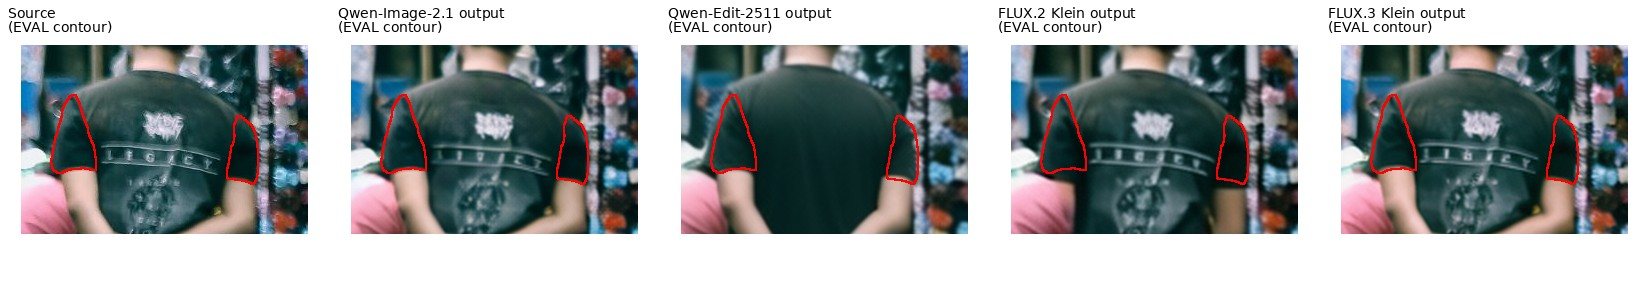
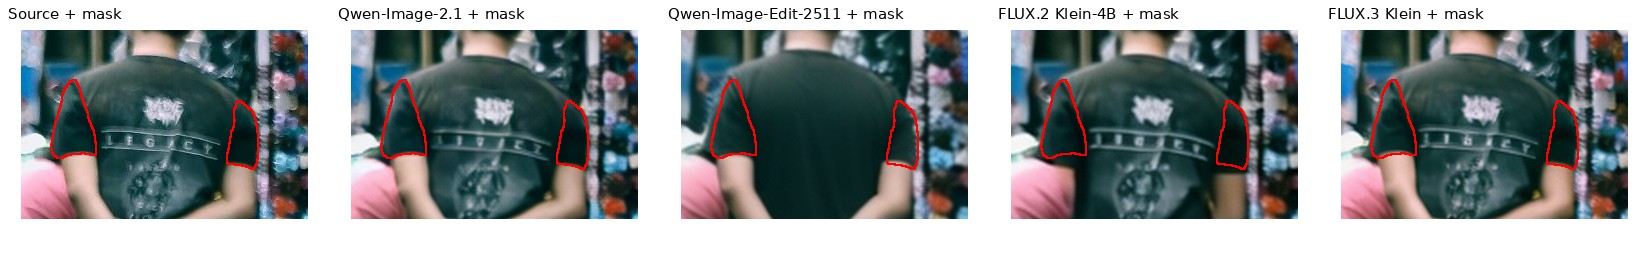
docs: restore visual locator report

diff --git a/evaluation/analyze_results.py b/evaluation/analyze_results.py
@@ -1,7 +1,6 @@
 from __future__ import annotations
 import csv, html, json, math, re, shutil
 from pathlib import Path
-import textwrap
 from collections import Counter, defaultdict
 from PIL import Image, ImageChops, ImageFilter, ImageDraw, ImageFont
 
@@ -24,18 +23,6 @@ PATHS = {
 }
 COLORS = {'qwen_image_21':'#4472c4','qwen_image_edit_2511':'#ed7d31','flux2_klein_4b':'#70ad47','flux3_klein':'#7030a0'}
 DIM_COLORS = {'E':'#4472c4','P':'#ed7d31','Q':'#70ad47','unit_joint':'#7030a0'}
-INPUT_METHODS = {
-    'qwen_image_21': 'grayscale mask label map (mask_full)',
-    'qwen_image_edit_2511': 'grayscale mask label map (mask_full)',
-    'flux2_klein_4b': 'grayscale mask label map (mask_full)',
-    'flux3_klein': 'color locator image (colored locator marks)',
-}
-SHORT_LABELS = {
-    'qwen_image_21': 'Qwen-Image-2.1',
-    'qwen_image_edit_2511': 'Qwen-Edit-2511',
-    'flux2_klein_4b': 'FLUX.2 Klein',
-    'flux3_klein': 'FLUX.3 Klein',
-}
 
 
 def read_jsonl(p):
@@ -225,7 +212,7 @@ def grouped_panel(x0,title,groups,metric='unit_joint_rate'):
     return s
 W,H=1250,700
 body=svg_text(W/2,38,'Locator Impact on Unit Joint-Pass Rate',26,'#111827','middle','bold')
-body+=grouped_panel(55,'Reference vs. no-reference',['ref','no-ref'])+grouped_panel(650,'Locator type (case metadata)',['point','box','mask'])
+body+=grouped_panel(55,'Reference vs. no-reference',['ref','no-ref'])+grouped_panel(650,'Locator type',['point','box','mask'])
 for i,(m,label) in enumerate(MODELS.items()):
     xx=95+(i%2)*260; yy=610+(i//2)*32; body+=f'<rect x="{xx}" y="{yy-12}" width="14" height="14" rx="2" fill="{COLORS[m]}"/>'+svg_text(xx+23,yy,label,13)
 svg_chart(FIG/'locator_impact.svg',body,W,H)
@@ -311,14 +298,14 @@ for tag,cid in selected.items():
     shutil.copy2(j['public_job']['images'][1],ifolder/'locator.png')
     # overview
     mask_job=case_jobs['qwen_image_21'][cid]
-    imgs=[('Source (clean)',j['source_image']),('Mask locator\n(Qwen/FLUX.2)',mask_job['public_job']['images'][1]),('Color locator\n(FLUX.3)',j['public_job']['images'][1])]
+    imgs=[('Source',j['source_image']),('Mask locator',mask_job['public_job']['images'][1]),('Color locator',j['public_job']['images'][1])]
     for m,label in MODELS.items():
         mj=case_jobs[m][cid]
-        imgs.append((f'{SHORT_LABELS[m]} output\n[{"mask" if m != "flux3_klein" else "color"}]',outputs[m][mj['job_id']]['output_image']))
+        imgs.append((label,outputs[m][mj['job_id']]['output_image']))
     cells=[]
     for label,p in imgs:
-        im=thumb(Image.open(p),size=(360,245)); cell=Image.new('RGB',(380,320),'white'); cell.paste(im,((380-im.width)//2,55)); ImageDraw.Draw(cell).multiline_text((10,6),label,fill='black',font=font(17),spacing=2); cells.append(cell)
-    ov=Image.new('RGB',(380*len(cells),320),'white')
+        im=thumb(Image.open(p)); cell=Image.new('RGB',(380,300),'white'); cell.paste(im,((380-im.width)//2,28)); ImageDraw.Draw(cell).text((10,6),label,fill='black',font=font(18)); cells.append(cell)
+    ov=Image.new('RGB',(380*len(cells),300),'white')
     for i,c in enumerate(cells): ov.paste(c,(i*380,0))
     ov.save(ifolder/'overview.jpg',quality=90)
     # details
@@ -326,16 +313,16 @@ for tag,cid in selected.items():
         uid=d['id']; rowhtml=[]
         source_plain=Image.open(d['source_crop']).convert('RGB')
         source=outlined(source_plain,d['gold_source_mask'],d['crop_box_xyxy'])
-        cols=[('Source\n(EVAL contour)',source)]
+        cols=[('Source + mask',source)]
         for m,label in MODELS.items():
             # Use the crop built from the model's own input/output binding.
             mj=case_jobs[m][cid]
             md=next(x for x in mj['private_evaluation_details'] if x['id']==uid)
             outplain=Image.open(md['output_crop']).convert('RGB')
-            cols.append((f'{SHORT_LABELS[m]} output\n(EVAL contour)',outlined(outplain,md['gold_source_mask'],md['crop_box_xyxy'])))
-        cw,ch=330,300; panel=Image.new('RGB',(cw*len(cols),ch),'white'); draw=ImageDraw.Draw(panel)
+            cols.append((label+' + mask',outlined(outplain,md['gold_source_mask'],md['crop_box_xyxy'])))
+        cw,ch=330,260; panel=Image.new('RGB',(cw*len(cols),ch),'white'); draw=ImageDraw.Draw(panel)
         for i,(label,im) in enumerate(cols):
-            im.thumbnail((cw-10,ch-52),Image.Resampling.LANCZOS); panel.paste(im,(i*cw+(cw-im.width)//2,45)); draw.multiline_text((i*cw+8,5),label,fill='black',font=font(14),spacing=1)
+            im.thumbnail((cw-10,ch-35),Image.Resampling.LANCZOS); panel.paste(im,(i*cw+(cw-im.width)//2,30)); draw.text((i*cw+8,5),label,fill='black',font=font(15))
         panel.save(ifolder/f'{uid}_detail.jpg',quality=90)
 
 # Case HTML with status badges and evidence.
@@ -381,88 +368,9 @@ def prompt_zh(job):
     return '\n'.join(lines)
 
 # Markdown report.
-md=['# SAMTok Edit Benchmark 2.6.0 结果分析','',f'生成时间：2026-10-19；四个模型均为完整 1084/1084 judge 评分。Judge 模型：`Qwen3.8-Flash-Next-FP8`。', '', '## 0. 评测配置', '', '### 0.1 评测对象与输入', '', '- Benchmark manifest：`data/v2_2.6.0/cases.jsonl`，共 1,084 个 `mixed` jobs。', '- 源数据根：`/mnt/bn/strategy-mllm-train/user/tanyue/datasets/samtok_edit_benchmark_v2`。', '- 输入协议：`visual_locator_v2`。每个 job 给模型干净 source image、区域信息图和公开 instruction；模型只需输出编辑后的完整 RGB 图片。', '- 三个模型使用 `mask_full`：第二张图是灰度 label map，U1…U5 分别使用灰度值 51、102、153、204、255；颜色和形状不是输出目标。', '- FLUX.3 使用 `visual_locator_v2_mixed_color`：第二张图是带颜色 locator marks 的区域图，结合 point、box、mask 和 U 标签定位。', '', '### 0.2 生成模型与推理 setting', '', '| 模型 | 输入 setting | 推理实现 | Steps | 关键参数 |', '|---|---|---|---:|---|']
-GEN_SETTINGS = {
-    'qwen_image_21': ('mask_full', 'DiffSynth `QwenImage21Pipeline`', '40', 'cfg_scale=1.0; grid=32'),
-    'qwen_image_edit_2511': ('mask_full', 'DiffSynth `QwenImagePipeline`', '40', 'cfg_scale=4.0; zero_cond_t=true; edit_image_auto_resize=true; grid=16'),
-    'flux2_klein_4b': ('mask_full', 'DiffSynth `Flux2ImagePipeline`', '4', 'cfg_scale=1.0; embedded_guidance=1.0; grid=16'),
-    'flux3_klein': ('visual_locator_v2_mixed_color', 'FLUX.3 Klein official reference inference', '16', 'official prompt upsampler/PUP; grid=16'),
-}
-for m,label in MODELS.items():
-    setting, impl, steps, params = GEN_SETTINGS[m]
-    md.append(f'| {label} | `{setting}` | {impl} | {steps} | {params} |')
-# One complete, representative model input package per setting, using the same case.
-# Each row shows the actual Image 1 (clean source), Image 2 (locator image), and
-# the prompt text sent with that pair. This avoids presenting the locator image
-# as if it were the only model input.
-def input_setting_examples():
-    cid = 'v2-sa_10006079'
-    order = ['qwen_image_21', 'qwen_image_edit_2511', 'flux2_klein_4b', 'flux3_klein']
-    W, row_h = 2200, 340
-    canvas = Image.new('RGB', (W, 70 + row_h * len(order)), 'white')
-    draw = ImageDraw.Draw(canvas)
-    try:
-        title_font = ImageFont.truetype('/usr/share/fonts/truetype/dejavu/DejaVuSans-Bold.ttf', 22)
-        label_font = ImageFont.truetype('/usr/share/fonts/truetype/dejavu/DejaVuSans-Bold.ttf', 18)
-        text_font = ImageFont.truetype('/usr/share/fonts/truetype/dejavu/DejaVuSans.ttf', 15)
-        small_font = ImageFont.truetype('/usr/share/fonts/truetype/dejavu/DejaVuSans.ttf', 13)
-    except OSError:
-        title_font = label_font = text_font = small_font = ImageFont.load_default()
-    draw.text((18, 14), 'Actual model input package: Image 1 + Image 2 + prompt', fill='#111827', font=title_font)
-    source_box = (270, 48, 760, 320)
-    locator_box = (790, 48, 1280, 320)
-    prompt_x, prompt_w = 1310, 850
-    for i, m in enumerate(order):
-        y = 70 + i * row_h
-        job = case_jobs[m][cid]['public_job']
-        source_path, locator_path = job['images'][:2]
-        fill = '#f8fafc' if i % 2 == 0 else '#ffffff'
-        draw.rectangle((0, y, W, y + row_h), fill=fill)
-        draw.text((18, y + 18), MODELS[m], fill='#111827', font=label_font)
-        draw.text((18, y + 52), GEN_SETTINGS[m][0], fill='#4b5563', font=small_font)
-        for box, path, label in [(source_box, source_path, 'Image 1: clean source'),
-                                 (locator_box, locator_path, 'Image 2: locator input')]:
-            x0, y0, x1, y1 = box
-            y0 += y; y1 += y
-            draw.text((x0, y0 - 25), label, fill='#374151', font=small_font)
-            with Image.open(path) as src:
-                im = src.convert('RGB')
-            im.thumbnail((x1 - x0 - 10, y1 - y0 - 10), Image.Resampling.LANCZOS)
-            draw.rectangle((x0, y0, x1, y1), outline='#cbd5e1', width=1)
-            canvas.paste(im, (x0 + (x1 - x0 - im.width) // 2, y0 + (y1 - y0 - im.height) // 2))
-        draw.text((prompt_x, y + 22), 'Prompt sent with this image pair', fill='#374151', font=small_font)
-        prompt = job['prompt'].replace('\n', ' | ')
-        lines = textwrap.wrap(prompt, width=92, break_long_words=False, break_on_hyphens=False)
-        for j, line in enumerate(lines[:14]):
-            draw.text((prompt_x, y + 48 + j * 19), line, fill='#111827', font=text_font)
-        if len(lines) > 14:
-            draw.text((prompt_x, y + 48 + 14 * 19), '…', fill='#4b5563', font=text_font)
-    canvas.save(FIG / 'input_settings_examples.jpg', quality=84, optimize=True, progressive=True)
-
-input_setting_examples()
-md += ['', '所有生成配置的目标面积约为 1 MP；输出在 registry 中绑定 source size、manifest SHA256、input digest 和 run configuration。生成使用 8 张 GPU（0–7），完整生成结果均为 1,084/1,084。', '', '各模型实际推理输入包的示例（同一 case：`v2-sa_10006079`）：', '', '![四个模型实际收到的完整输入包](figures/input_settings_examples.jpg)', '', '图中每一行对应一次实际推理输入，包含 Image 1（干净 source）、Image 2（区域信息图）以及随图片发送的 prompt。前三个模型的 Image 2 是实际的灰度 `mask_full` label map；FLUX.3 的 Image 2 是实际的彩色 locator 图。该 case 的原始 unit metadata 是 U1=box、U2=mask，但 `mask_full` 会把两个非 none locator 都统一编码成灰度区域，因此前三个模型的 Image 2 中 U1 和 U2 都显示为 label-map 区域。这是输入 setting 的统一编码，不是把 U1 的 box metadata 误改成 mask。', '', '### 0.3 Judge 与通过规则', '', '- Judge protocol：`v2_epq_numeric_all_units_1`；Judge 模型：`/mnt/bn/strategy-mllm-train/user/tanyue/models/pretrained_models/Qwen3.8-Flash-Next-FP8`。', '- 推理后端：vLLM，tensor parallel size=8，GPU memory utilization=0.85，temperature=0，seed=0，max tokens=12,288。', '- Judge 输入包括完整 source/output、固定坐标 source/output crops，以及只供 judge 使用的源 mask contour。模型输出本身不叠加 contour。', '- 每个单元评分 E、P、Q 为 0–4 分；E=4 才通过，P/Q≥3 才通过；整图 `global_P`、`global_Q` 也要求分数≥3。', '- `JointPass` 要求该 job 的所有 U 都满足 E/P/Q，并且 `global_P` 与 `global_Q` 都通过。', '', '### 0.4 结果路径', '', '| 内容 | 路径 |', '|---|---|']
-PATH_ROWS = [
-    ('最终报告（Git）', '`docs/reports/2.6.0/RESULT_ANALYSIS_2_6_0_ZH.md`'),
-    ('生成与 judge 外部实验根', '`/mnt/bn/strategy-mllm-train/user/tanyue/experiments2/SAMTokEdit/benchmark_v2_2.6.0_baselines/`'),
-    ('mask_full 输入 jobs', '`recommended_inputs/mask_full/jobs.jsonl`'),
-    ('FLUX.3 冻结 judge 输入', '`recommended_judge_inputs/flux3_klein_color/judge_jobs.jsonl`'),
-    ('Qwen-Image-2.1 生成', '`recommended_runs/qwen_image_21_mask/outputs.jsonl`'),
-    ('Qwen-Image-Edit-2511 生成', '`recommended_runs/qwen_image_edit_2511_mask/outputs.jsonl`'),
-    ('FLUX.2 Klein-4B 生成', '`recommended_runs/flux2_klein_4b_mask/outputs.jsonl`'),
-    ('FLUX.3 Klein 生成', '`recommended_runs/flux3_klein_color/outputs.jsonl`'),
-    ('四模型 judge 输入', '`recommended_judge_inputs/<model>/judge_jobs.jsonl`'),
-    ('四模型 scores', '`recommended_judge/<model>/Qwen3.8-Flash-Next-FP8/scores.jsonl`'),
-    ('四模型结构化 report', '`recommended_judge/<model>/Qwen3.8-Flash-Next-FP8/report.json`'),
-    ('setting 示例图', '`docs/reports/2.6.0/figures/input_settings_examples.jpg`'),
-    ('本报告统计 CSV 与图', '`docs/reports/2.6.0/{main_table,k_jointpass,locator_impact,failure_modes}.*`'),
-]
-for name,path in PATH_ROWS: md.append(f'| {name} | {path} |')
-md += ['', '推荐的复现入口：`evaluation/diffsynth/run_all.sh`；统计脚本：`evaluation/analyze_results.py`。本报告使用已经完成且通过完整绑定检查的四个 `scores.jsonl`，不是 partial records。', '', '## 1. 主表', '', '| 模型 | JointPass | E 单元通过率 | P 单元通过率 | Q 单元通过率 | global_P | global_Q |','|---|---:|---:|---:|---:|---:|---:|']
+md=['# SAMTok Edit Benchmark 2.6.0 结果分析','',f'生成时间：2026-10-19；四个模型均为完整 1084/1084 judge 评分。Judge 模型：`Qwen3.8-Flash-Next-FP8`。','', '## 1. 主表','', '| 模型 | JointPass | E 单元通过率 | P 单元通过率 | Q 单元通过率 | global_P | global_Q |','|---|---:|---:|---:|---:|---:|---:|']
 for r in main: md.append(f"| {r['model']} | {r['joint_pass']}/{r['cases']} ({pct(r['joint_rate'])}) | {pct(r['E_unit_rate'])} | {pct(r['P_unit_rate'])} | {pct(r['Q_unit_rate'])} | {pct(r['global_P_rate'])} | {pct(r['global_Q_rate'])} |")
-md += ['', 'JointPass 要求每个单元的 E/P/Q 都通过，同时 global_P 与 global_Q 通过。E 反映执行是否完成，P 反映非目标内容保持，Q 反映编辑质量。整体难度由 JointPass 体现；从单元级指标看，模型之间的主要差异可按 E、P、Q 三列比较。', '', '## 1.1 模型输入设置', '', '| 模型 | 区域信息输入 | 评测输入包 |', '|---|---|---|']
-for m,label in MODELS.items():
-    md.append(f"| {label} | {INPUT_METHODS[m]} | `{PATHS[m][0]}` |")
-md += ['', '总览图中带有 `[mask]` 或 `[color]` 的模型输出面板表示该模型实际收到的区域信息形式。细节图里的红色轮廓统一是评测可视化用的源 mask 轮廓，用来对齐局部区域；它不是模型输出，也不参与输出图像评分。', '', '## 2. 多目标组合代价','', '![JointPass 随 K 变化](figures/k_jointpass.svg)','', '实线是实测 JointPass，虚线是各单元 E/P/Q 联合通过率乘积 `∏u p_u`。对 K 个目标，令 `p_u` 为位置 Uu 的单元联合通过率；实测曲线低于虚线表示多个请求之间存在额外干扰。图和 `k_jointpass.csv` 另外给出 `global_P × global_Q × ∏u p_u`，用于解释全图保持与整体质量对最终 JointPass 的额外压缩。', '', '## 3. 定位方式的影响','', '![定位方式影响](figures/locator_impact.svg)','', '单元级 `unit_joint` 定义为该单元 E、P、Q 同时通过。左图先比较 ref 和 no-ref；no-ref 指令只写 `the selected region`，模型必须从 locator 选择实例。右图的 point/box/mask 是按 case 的原始 locator metadata 分组，且跨 ref 与 no-ref 汇总；对于前三个 `mask_full` 模型，这三类 case 最终都以灰度 label map 输入，因此右图不是三种视觉编码的受控 ablation，而是不同原始 locator 类型 case 的条件通过率。FLUX.3 的 color locator 保留了 point、box、mask 的视觉标记。完整 E/P/Q 与样本数见 `locator_impact.csv`。','', '| 模型 | ref unit-joint | no-ref unit-joint | no-ref - ref |','|---|---:|---:|---:|']
+md += ['', 'JointPass 要求每个单元的 E/P/Q 都通过，同时 global_P 与 global_Q 通过。E 反映执行是否完成，P 反映非目标内容保持，Q 反映编辑质量。整体难度由 JointPass 体现；从单元级指标看，模型之间的主要差异可按 E、P、Q 三列比较。', '', '## 1.1 评测方式与输入 setting', '', '- 每个 job 来自 `data/v2_2.6.0/cases.jsonl`，输入由干净 source image、区域定位信息和公开 instruction 组成；编辑模型只输出完整 RGB 图片。', '- 正式视觉定位 setting：`visual_locator_v2` / `mixed`。point、box、mask 和 U 标签直接绘制在第二张 locator 图上，定位信息叠加在原图坐标上；模型输出不得保留这些标记。', '- 原生区域 setting：`native_regions_v2` / `mixed`。保留 point、box、二值 mask 的原生文件/坐标，供 API 式区域输入实验使用。', '- 灰度区域 setting：`mask_full` / `mask_pilot`。第二张图是黑底灰度 label map，U1…U5 对应 51、102、153、204、255，用于 mask 对照实验。', '- 本报告案例总览保留 source、mask locator、color locator 和四个模型输出；红色轮廓只出现在局部评测对齐图中，来自 evaluator，不是模型输出。', '', '### 1.2 评分与结果绑定', '', '- Judge 使用 `Qwen3.8-Flash-Next-FP8`，通过 vLLM 以 tensor parallel size 8、temperature 0、seed 0 运行。每个 U 评分 E/P/Q；E=4、P/Q≥3 视为单元通过，整图还要求 global_P/global_Q 通过。', '- 本报告主表使用已经完成的 1,084/1,084 judge 结果；结果与输入 manifest、输出图和 prompt 通过 job/input digest 绑定。', '- 外部评测结果根：`/mnt/bn/strategy-mllm-train/user/tanyue/experiments2/SAMTokEdit/benchmark_v2_2.6.0_baselines/`。以下表格路径均相对于该目录；仓库内报告为 `docs/reports/2.6.0/RESULT_ANALYSIS_2_6_0_ZH.md`。', '', '| 模型 | 结果绑定的输入包 | 生成输出 | Judge report |', '|---|---|---|---|', '| Qwen-Image-2.1 | `recommended_judge_inputs/qwen_image_21_mask/judge_jobs.jsonl` | `recommended_runs/qwen_image_21_mask/outputs.jsonl` | `recommended_judge/qwen_image_21_mask/Qwen3.8-Flash-Next-FP8/report.json` |', '| Qwen-Image-Edit-2511 | `recommended_judge_inputs/qwen_image_edit_2511_mask/judge_jobs.jsonl` | `recommended_runs/qwen_image_edit_2511_mask/outputs.jsonl` | `recommended_judge/qwen_image_edit_2511_mask/Qwen3.8-Flash-Next-FP8/report.json` |', '| FLUX.2 Klein-4B | `recommended_judge_inputs/flux2_klein_4b_mask/judge_jobs.jsonl` | `recommended_runs/flux2_klein_4b_mask/outputs.jsonl` | `recommended_judge/flux2_klein_4b_mask/Qwen3.8-Flash-Next-FP8/report.json` |', '| FLUX.3 Klein | `recommended_judge_inputs/flux3_klein_color/judge_jobs.jsonl` | `recommended_runs/flux3_klein_color/outputs.jsonl` | `recommended_judge/flux3_klein_color/Qwen3.8-Flash-Next-FP8/report.json` |', '', '小批量三 setting 对照素材位于外部实验根的 `mask_pilot/setting_gallery/`；它包括正式视觉 locator、color locator control 和 mask pilot。完整主表只使用上表列出的冻结结果路径。', '', '## 2. 多目标组合代价','', '![JointPass 随 K 变化](figures/k_jointpass.svg)','', '实线是实测 JointPass，虚线是各单元 E/P/Q 联合通过率乘积 `∏u p_u`。对 K 个目标，令 `p_u` 为位置 Uu 的单元联合通过率；实测曲线低于虚线表示多个请求之间存在额外干扰。图和 `k_jointpass.csv` 另外给出 `global_P × global_Q × ∏u p_u`，用于解释全图保持与整体质量对最终 JointPass 的额外压缩。','', '## 3. 定位方式的影响','', '![定位方式影响](figures/locator_impact.svg)','', '单元级 `unit_joint` 定义为该单元 E、P、Q 同时通过。左图先比较 ref 和 no-ref；no-ref 指令只写 `the selected region`，模型必须从 locator 选择实例。右图再比较 point、box、mask 三种 locator。完整 E/P/Q 与样本数见 `locator_impact.csv`。','', '| 模型 | ref unit-joint | no-ref unit-joint | no-ref - ref |','|---|---:|---:|---:|']
 for m,label in MODELS.items():
     ref=next(r for r in locrows if r['model_key']==m and r['group']=='ref')['unit_joint_rate']
     noref=next(r for r in locrows if r['model_key']==m and r['group']=='no-ref')['unit_joint_rate']
